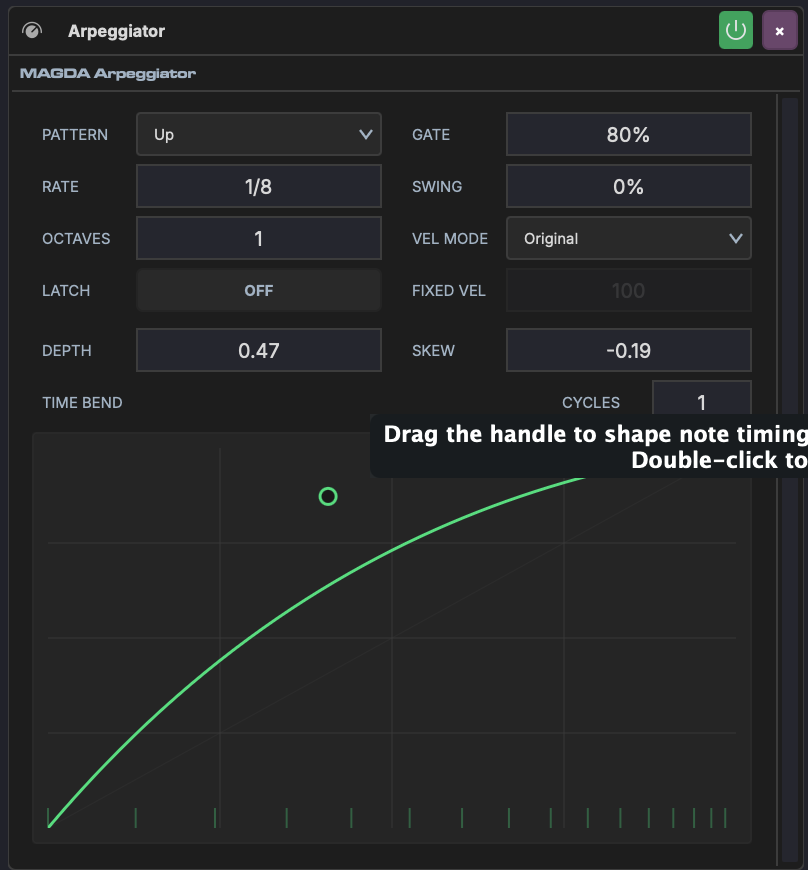
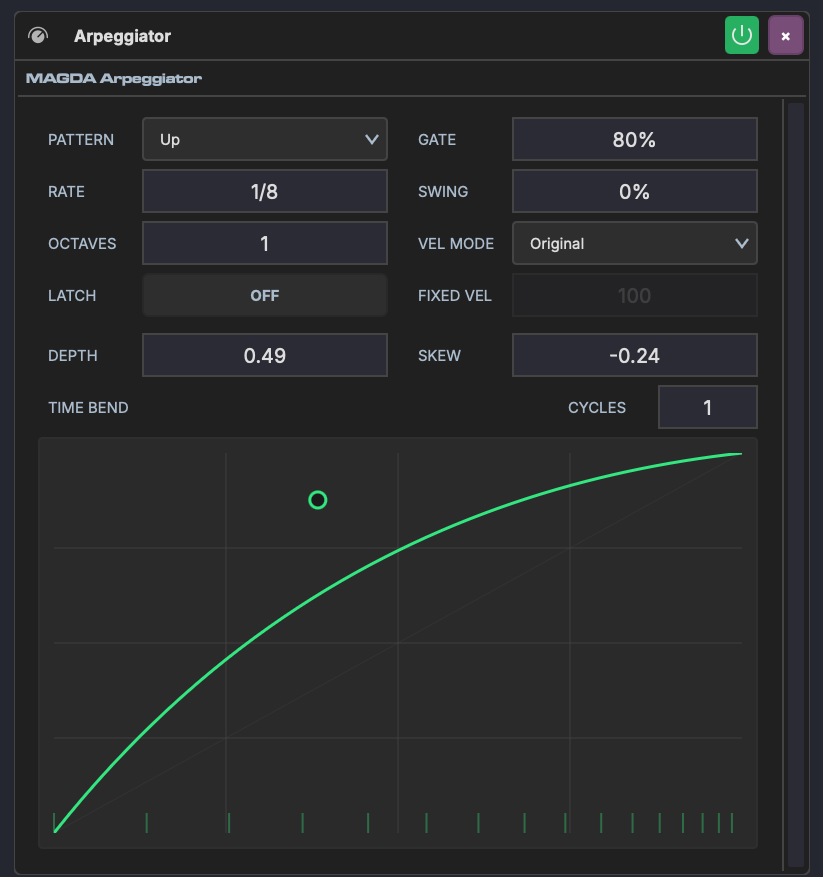
Organize built-in devices by category, update arpeggiator screenshot
- Group devices into MIDI Devices, Instruments, Effects sections
- Order instruments: 4OSC Synth, Drum Grid, Sampler
- Remove unsupported VST format from plugin list
- Replace arpeggiator screenshot with higher resolution image

diff --git a/manual/docs/devices/built-in.md b/manual/docs/devices/built-in.md
@@ -2,23 +2,28 @@
 
 MAGDA includes its own custom devices as well as processors from the Tracktion Engine.
 
-## MAGDA Devices
+## MIDI Devices
 
 | Device | Description |
 |--------|-------------|
-| **Chord Engine** | Real-time chord detection, suggestion, and AI progression generator. See [Chord Engine](chord-engine.md). |
-| **Drum Grid** | Chain-based drum machine with per-pad FX. See [Drum Grid](drum-grid.md). |
 | **Arpeggiator** | MIDI arpeggiator with pattern, swing, and time bend. See [Arpeggiator](arpeggiator.md). |
+| **Chord Engine** | Real-time chord detection, suggestion, and AI progression generator. See [Chord Engine](chord-engine.md). |
 | **Step Sequencer** | Programmable step sequencer with AI pattern generation. See [Step Sequencer](step-sequencer.md). |
 
-## Tracktion Engine Devices
+## Instruments
+
+| Device | Description |
+|--------|-------------|
+| **4OSC Synth** | Four-oscillator subtractive synthesizer with internal mod matrix. See [4OSC Synth](4osc.md). |
+| **Drum Grid** | Chain-based drum machine with per-pad FX. See [Drum Grid](drum-grid.md). |
+| **Sampler** | 8-voice sample player with ADSR and pitch controls. See [Sampler](sampler.md). |
+
+## Effects
 
 These processors are provided by the Tracktion Engine and are available in every MAGDA installation:
 
 | Device | Description |
 |--------|-------------|
-| **Sampler** | 8-voice sample player with ADSR and pitch controls. See [Sampler](sampler.md). |
-| **4OSC Synth** | Four-oscillator subtractive synthesizer with internal mod matrix. See [4OSC Synth](4osc.md). |
 | **EQ** | Parametric equalizer |
 | **Compressor** | Dynamics compressor |
 | **Reverb** | Algorithmic reverb |
@@ -37,6 +42,5 @@ In addition to built-in devices, MAGDA supports external plugins in the followin
 
 - **VST3** — Cross-platform
 - **Audio Units (AU)** — macOS only
-- **VST** — Legacy format, cross-platform
 
 Use the [Plugin Browser](../panels/browsers.md) to find and add plugins to your tracks.
